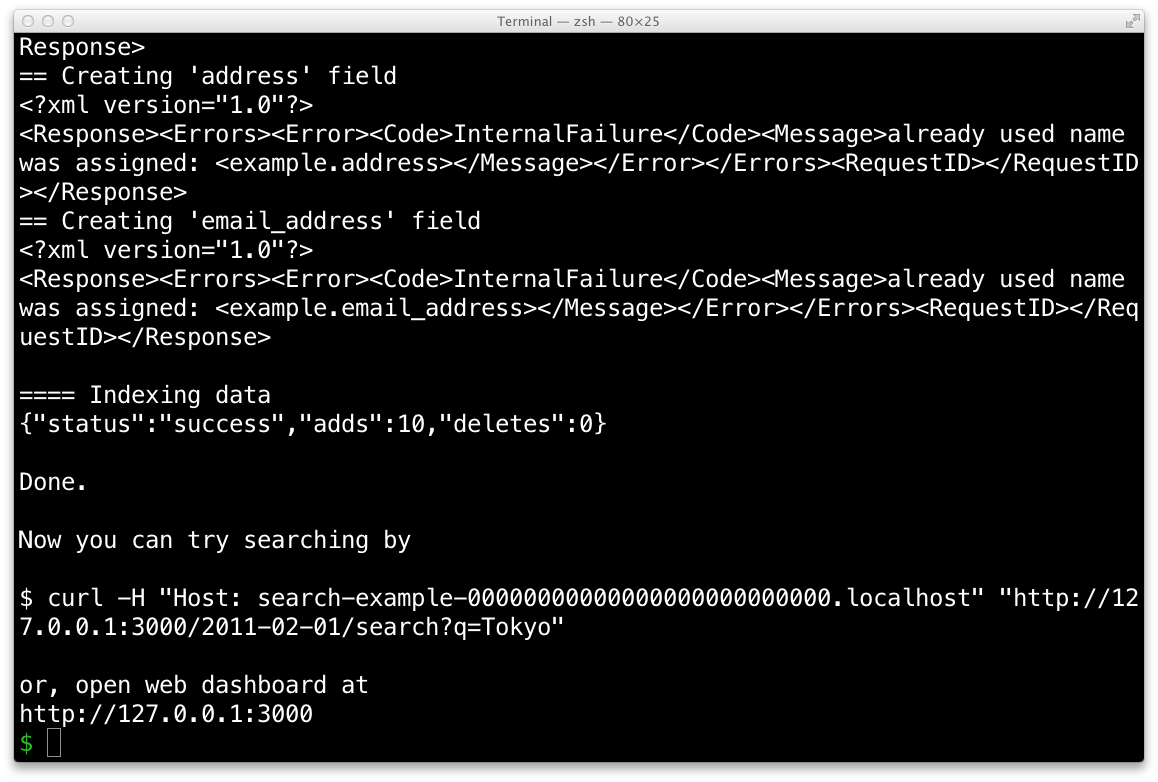
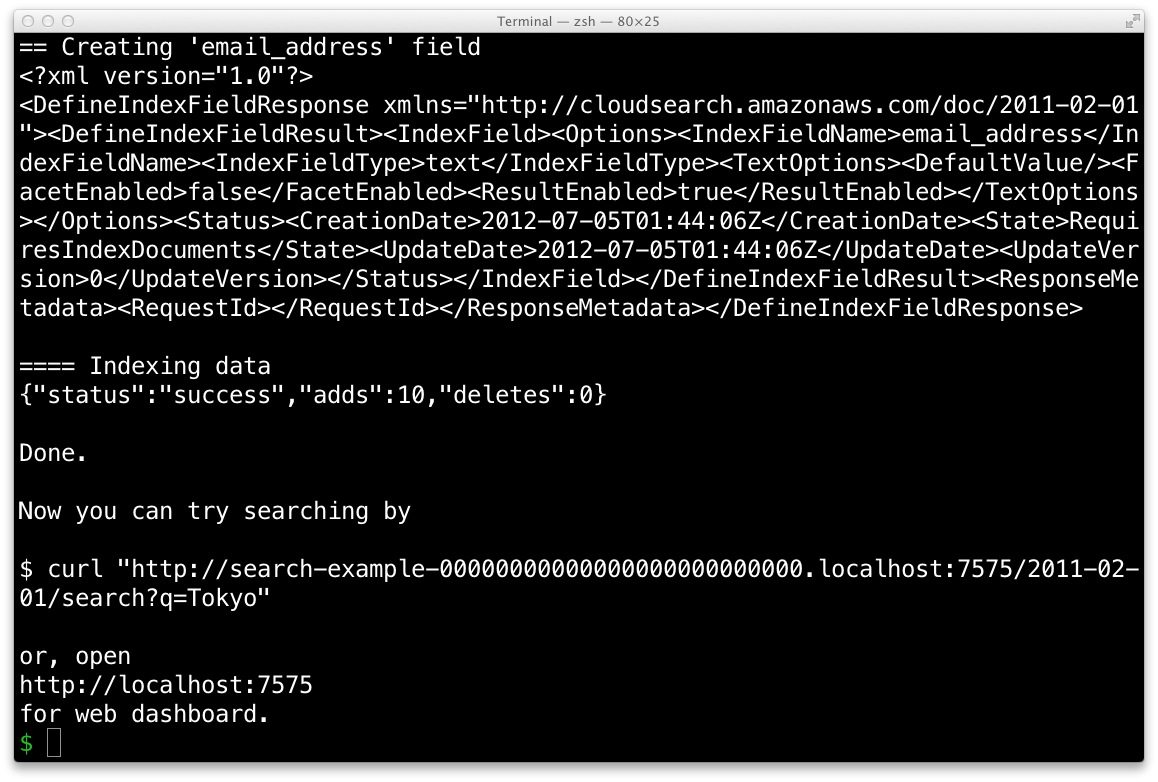
Replace screenshots on the tutorial

Changed region(s): [[0.0, 0.0307, 0.9948, 0.9207], [0.3731, 0.0307, 0.4041, 0.0921]]

diff --git a/docs/tutorial/index.md b/docs/tutorial/index.md
@@ -91,6 +91,8 @@ names to your `/etc/hosts`:
 
     $ sudo gcs-register-hosts example
 
+<img src="gcs-register-hosts.png" alt="running gcs-register-hosts command" width="100%" />
+
 Type the following command to confirm endpoint host names can be
 resolved:
 
@@ -109,6 +111,8 @@ Run Groonga CloudSearch service by `gcs` command:
 
     $ gcs
 
+<img src="gcs-started.png" alt="gcs started" width="100%" />
+
 Groonga CloudSearch service listens at
 [http://localhost:7575/](http://localhost:7575/) by default.
 
@@ -121,10 +125,17 @@ command:
 
     $ gcs-import-examples
 
-<img src="gcs-import-examples.png" alt="starting gcs-import-examples command" width="100%" />
-<img src="gcs-import-examples-started.png" alt="gcs-import-examples command started" width="100%" />
+If you see
+
+<img src="gcs-import-examples-ok.png" alt="gcs-import-examples command started" width="100%" />
 
 Hit enter to start importing.
+
+If you need some action before start importing, you will see the instrucion like the screenshot below. Follow the instructions and run `gcs-import-examples` again.
+
+<img src="gcs-import-examples-error.png" alt="gcs-import-examples command started with error" width="100%" />
+
+When you hit the enter key, import will be started.
 
 <img src="gcs-import-examples-finished.png" alt="gcs-import-examples finished" width="100%" />
 
